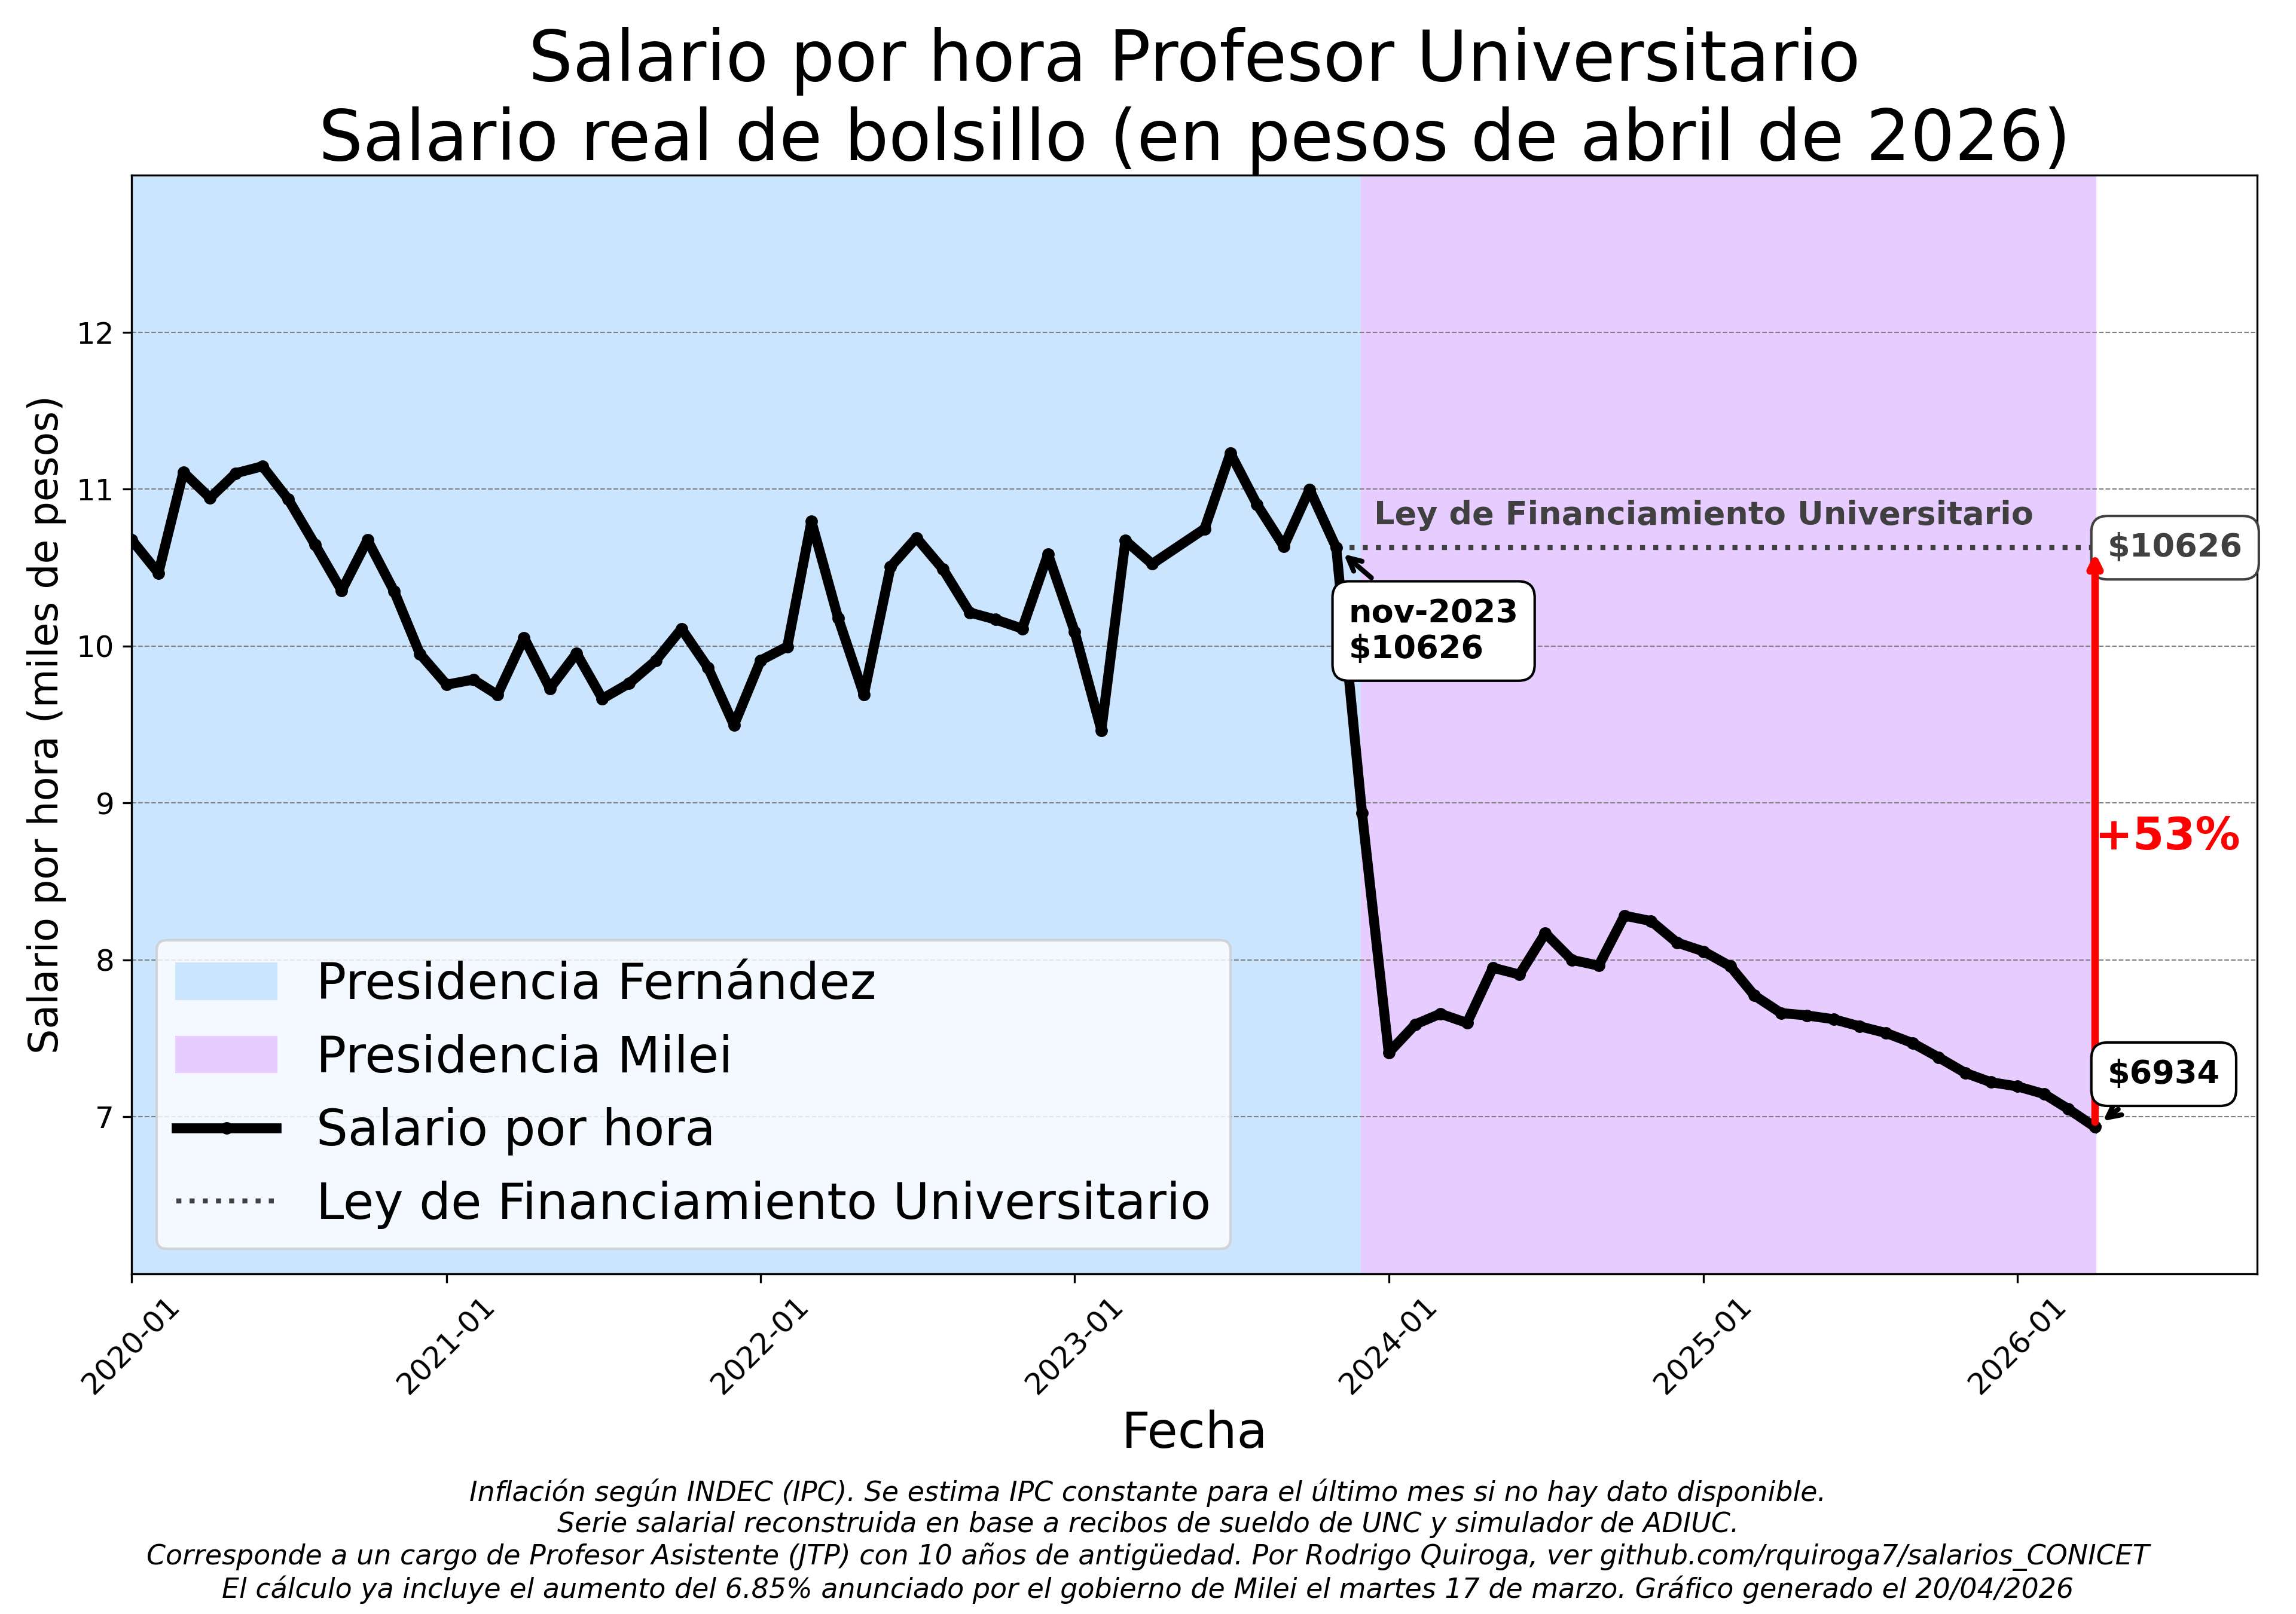
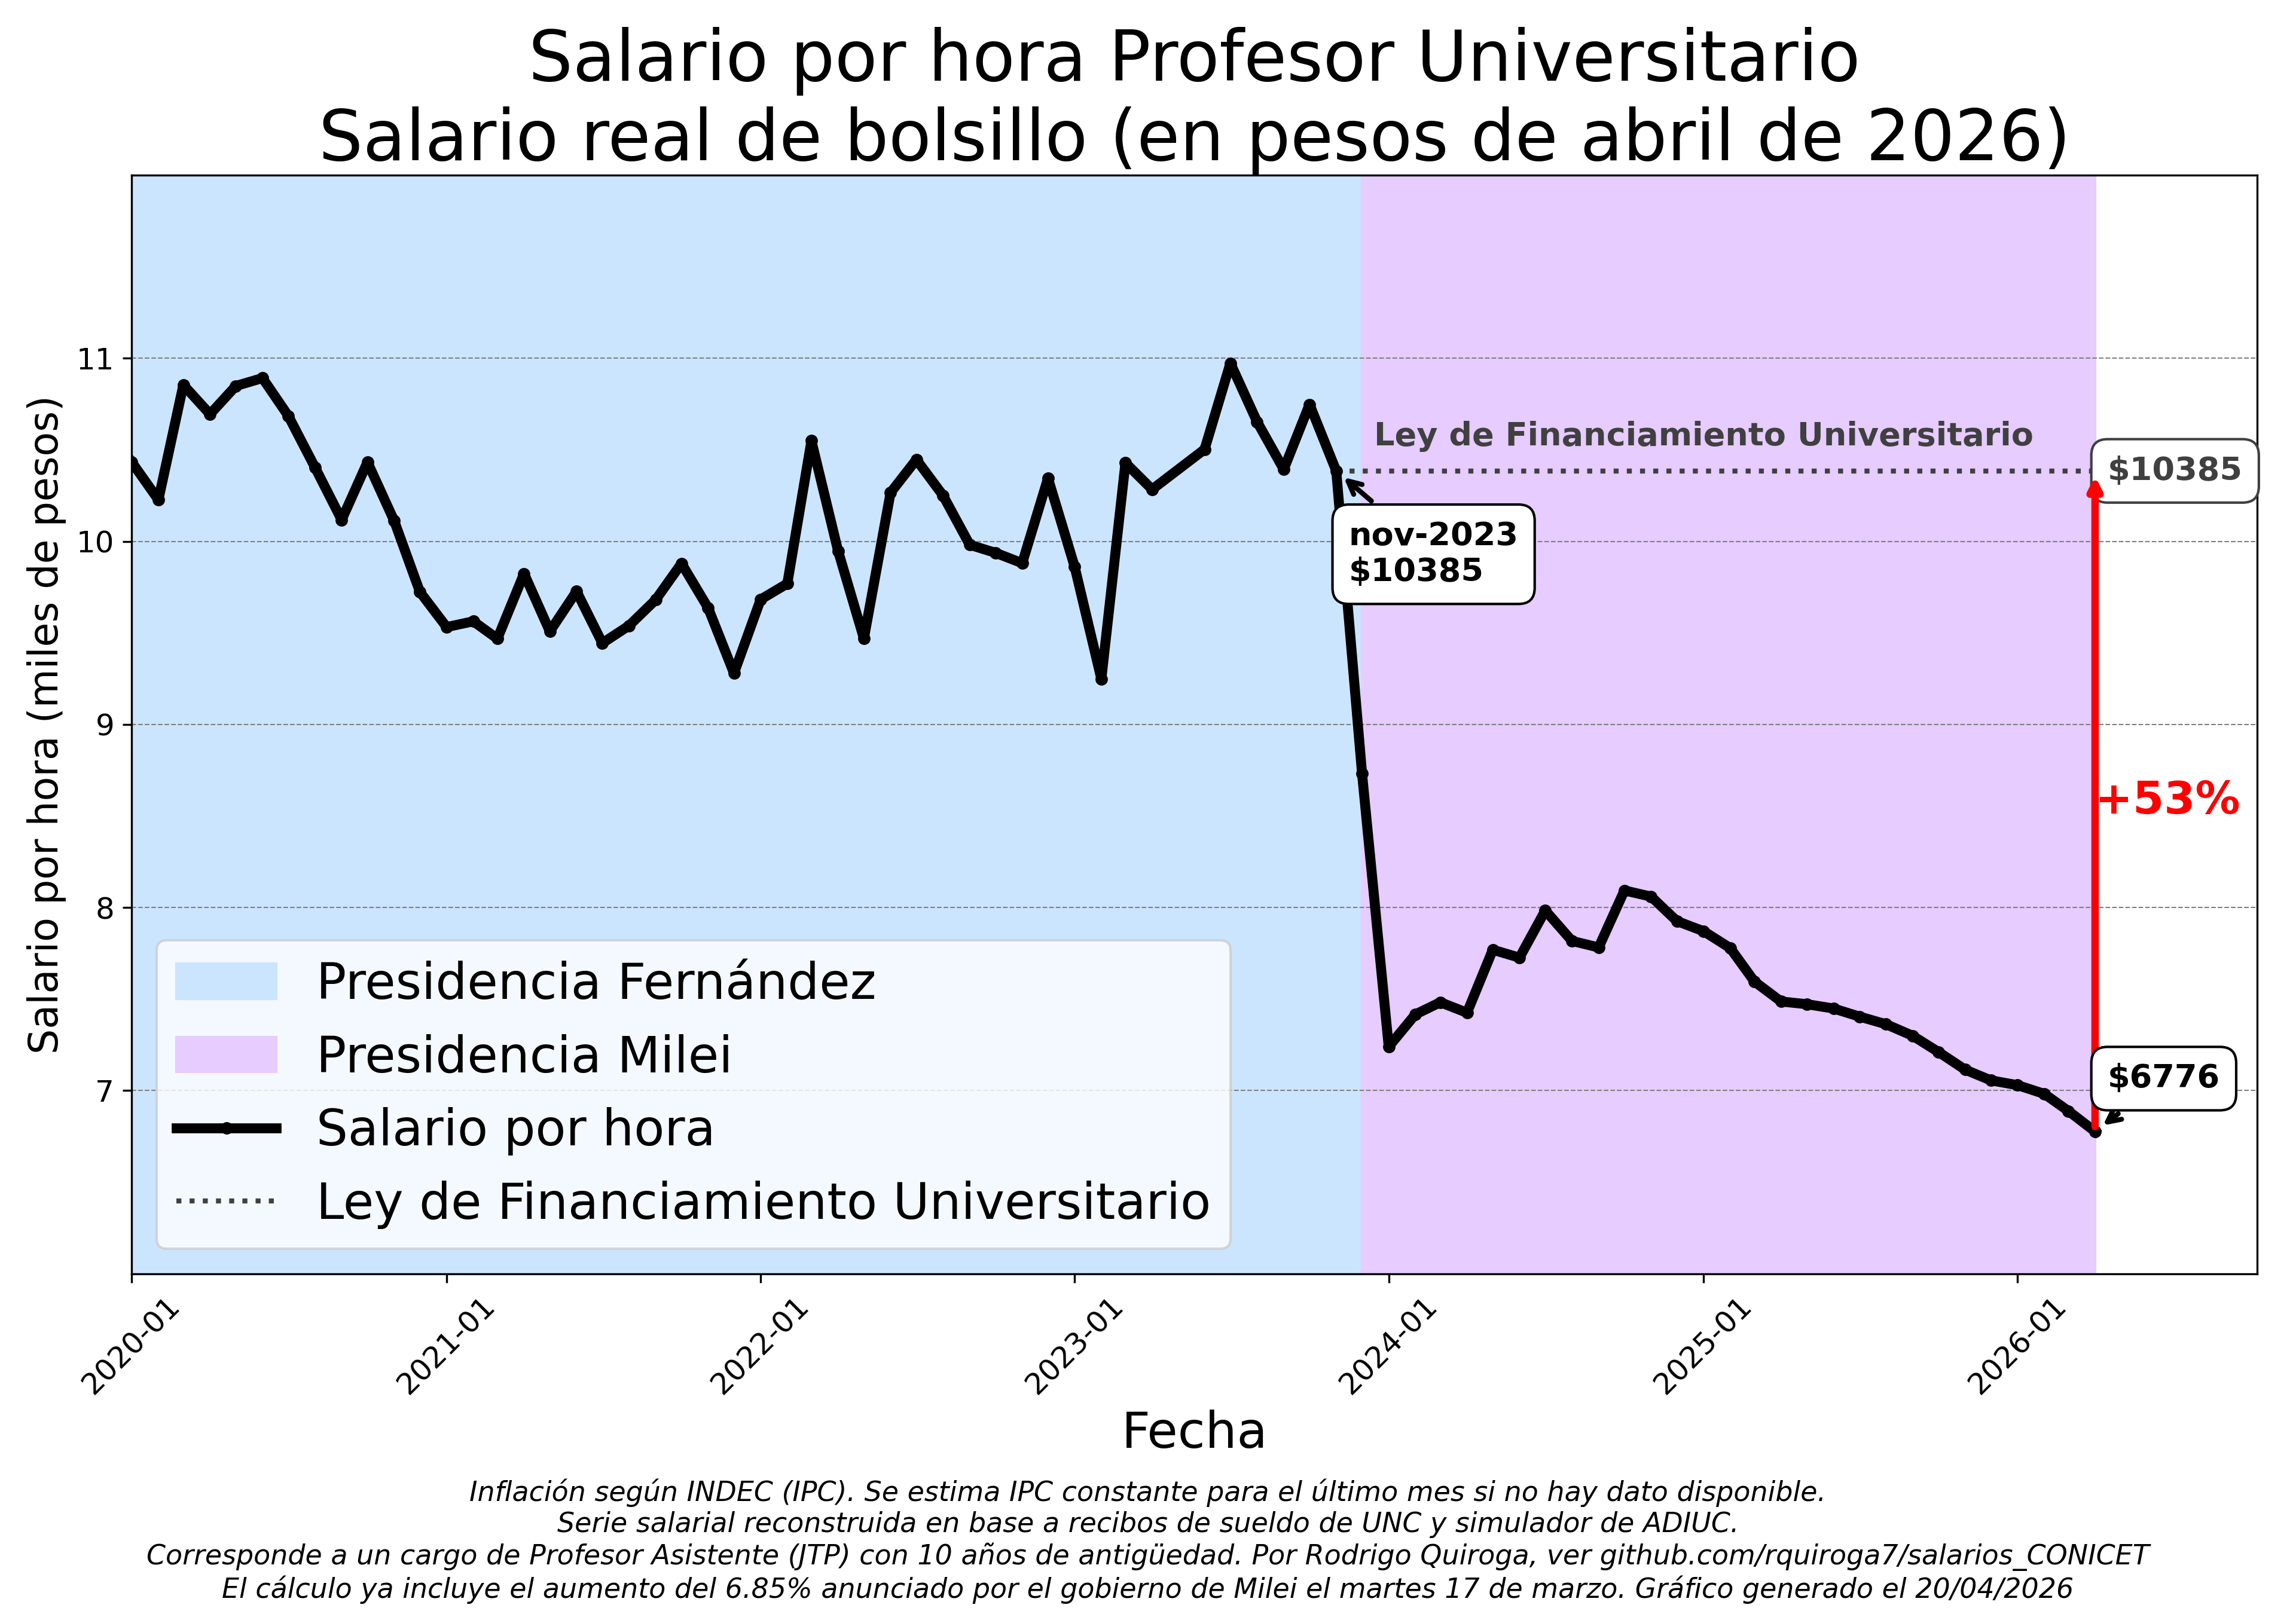
actualizo nombre cargo JTP

diff --git a/graf_cic.py b/graf_cic.py
@@ -407,7 +407,7 @@ plot_nominal_vs_adjusted(
 
 
 # =====================
-# Gráfico: Salario por hora Profasis (172 horas mensuales) - Serie histórica desde 2020
+# Gráfico: Salario por hora Profasis (176 horas mensuales) - Serie histórica desde 2020
 # =====================
 
 # Leer datos profasis (desde 2020)
@@ -416,8 +416,8 @@ df_prof_crudo = pd.read_csv("datos/crudo_profasis.csv", parse_dates=["fecha"])
 # Leer índice IPC para ajuste por inflación
 df_ipc = pd.read_csv("datos/ipc_nuevo.csv", parse_dates=["fecha"])
 
-# Calcular salario por hora usando 172 horas mensuales
-HORAS_MENSUALES = 172
+# Calcular salario por hora usando 176 horas mensuales
+HORAS_MENSUALES = 176
 df_prof_crudo["salario_hora"] = df_prof_crudo["salario"] / HORAS_MENSUALES
 
 # Fusionar con IPC para ajuste
@@ -764,7 +764,7 @@ ax_p.set_xlabel("Fecha", fontsize=18)
 ax_p.set_ylabel("Salario real (millones)", fontsize=18)
 ax_p.legend(loc='upper left', fontsize=14)
 
-plt.figtext(0.98, 0.01, f"Serie índice base 100 escalada al salario nominal de {last_nominal_date.strftime('%Y-%m-%d')} = ${int(nominal_last_value):,}.\nGráfico generado el {current_date}. Por Rodrigo Quiroga. Ver github.com/rquiroga7/salarios_CONICET.\nDatos históricos (pre-2020) cortesía de Matías Sanchez, AGD-UBA.",
+plt.figtext(0.98, 0.01, f"Salario de un profesor asistente (JTP) con 10 años de antigüedad. Salario nominal de {last_nominal_date.strftime('%Y-%m-%d')} = ${int(nominal_last_value):,}.\nGráfico generado el {current_date}. Por Rodrigo Quiroga. Ver github.com/rquiroga7/salarios_CONICET.\nDatos históricos (pre-2020) cortesía de Matías Sanchez, AGD-UBA.",
             ha="right", fontsize=12, style='italic')
 
 plt.tight_layout(rect=[0, 0.06, 1, 1])
@@ -772,8 +772,8 @@ plt.savefig("plots/grafico_salarios_profasis.png")
 plt.close()
 
 
-# --- Plot: Profasis proyectado por hora (dividir por 172) ---
-HORAS_MENSUALES = 172
+# --- Plot: Profasis proyectado por hora (dividir por 176) ---
+HORAS_MENSUALES = 176
 df_prof_index["salario_por_hora_actual"] = df_prof_index["salario_pesos_actuales"] / HORAS_MENSUALES
 
 fig_h, ax_h = plt.subplots(figsize=(3840/300, 2700/300), dpi=300)
@@ -810,7 +810,7 @@ ax_h.set_xlabel("Fecha", fontsize=18)
 ax_h.set_ylabel("Pesos por hora", fontsize=18)
 ax_h.legend(loc='upper left', fontsize=14)
 
-plt.figtext(0.98, 0.01, f"Proyección calculada escalando índice base100 al salario nominal de {last_nominal_date.strftime('%Y-%m-%d')} = ${int(nominal_last_value):,} y dividiendo por {HORAS_MENSUALES} horas/mes.\nGráfico generado el {current_date}. Por Rodrigo Quiroga. Ver github.com/rquiroga7/salarios_CONICET.\nDatos históricos (pre-2020) cortesía de Matías Sanchez, AGD-UBA.",
+plt.figtext(0.98, 0.01, f"Salario de un profesor asistente (JTP) con 10 años de antigüedad. Salario nominal de {last_nominal_date.strftime('%Y-%m-%d')} = ${int(nominal_last_value):,} y dividiendo por {HORAS_MENSUALES} horas/mes.\nGráfico generado el {current_date}. Por Rodrigo Quiroga. Ver github.com/rquiroga7/salarios_CONICET.\nDatos históricos (pre-2020) cortesía de Matías Sanchez, AGD-UBA.",
             ha="right", fontsize=12, style='italic')
 
 plt.tight_layout(rect=[0, 0.06, 1, 1])